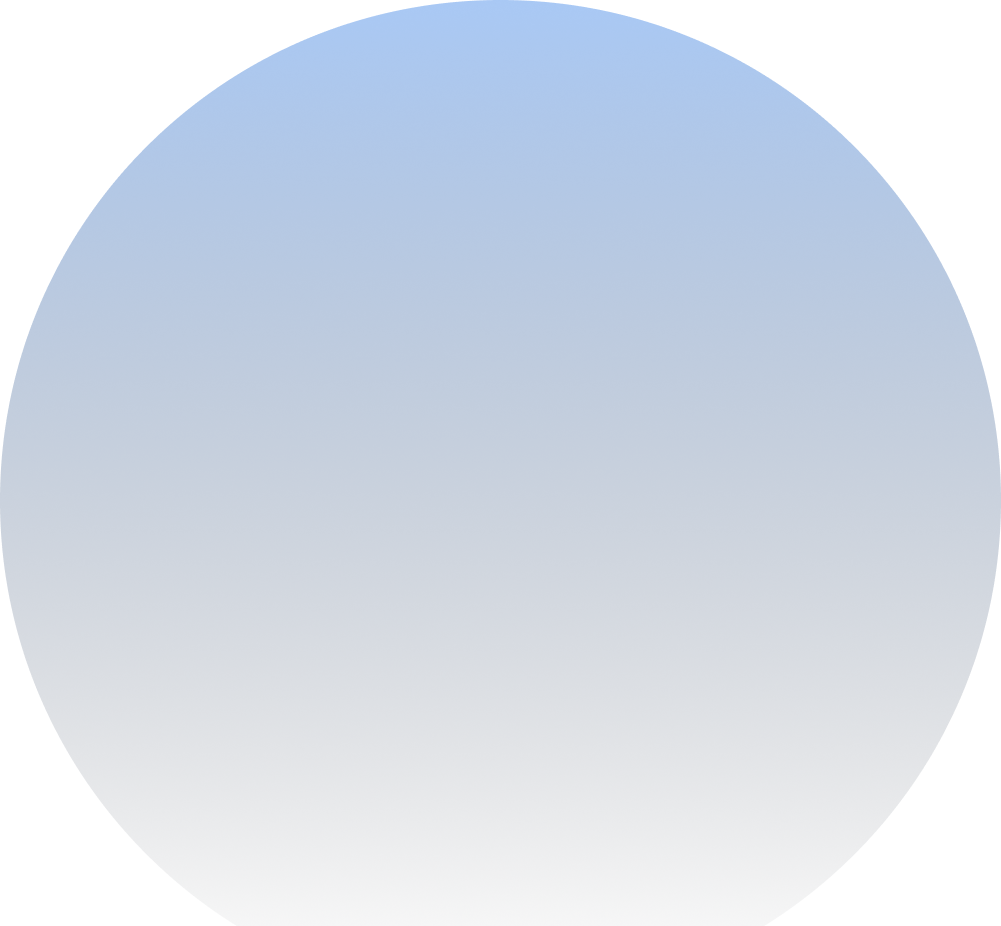
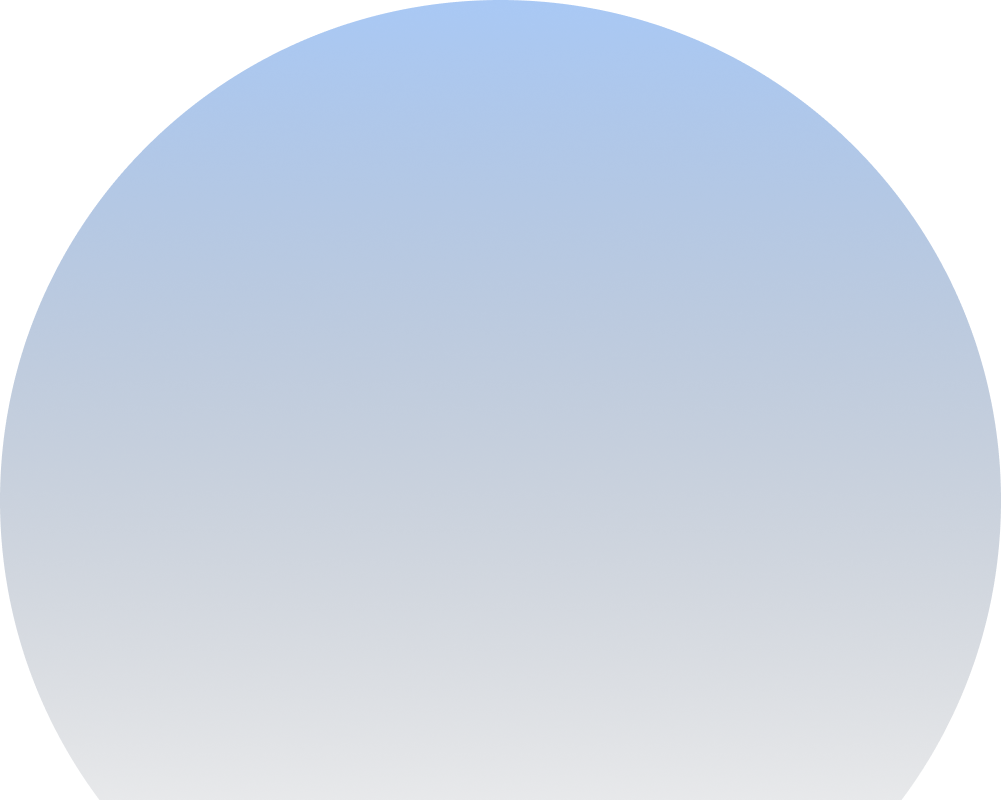
style: add blue sphere as background

diff --git a/src/components/organism/Contact.tsx b/src/components/organism/Contact.tsx
@@ -1,13 +1,12 @@
 import React, { useEffect, useState } from 'react';
-import Image from 'next/image';
+import { motion } from 'framer-motion';
 
-// Asset
-import BlueEllipes from '@public/images/blue-ellipse.png';
+// Animation
+import { fadeDown, fadeUp } from '@/animations/fade';
 
 // Component
 import TextInput from '../atom/TextInput';
 import TextAreaInput from '../atom/TextAreaInput';
-import Footer from './Footer';
 
 const Contact = () => {
   const [loading, setLoading] = useState<boolean>(true);
@@ -23,51 +22,81 @@ const Contact = () => {
     <div></div> 
   ) :
   (
-    <div className='w-full flex flex-col gap-7 md:gap-10 items-center'>
+    <div className='w-full mb-32 flex flex-col gap-7 md:gap-14 items-center'>
 
-      <h2 
+      <motion.h2 
         className='w-fit abril-fatface-regular text-purple-to-blue text-5xl text-center'
-        // custom={0}
-        // variants={titleVariants}
-        // initial="enter"
-        // whileInView="animate"
+        custom={0}
+        variants={fadeDown}
+        initial="enter"
+        whileInView="animate"
+        viewport={{ once: true }}
       >
         Let's talk about something big
-      </h2>
+      </motion.h2>
 
-      <div className='relative w-full h-fit mt-24 pt-5 flex flex-col items-center gap-32'>
-        <div className='max-w-[500px] w-11/12 flex flex-col gap-5 items-center'>
+      <div className='max-w-[500px] w-11/12 flex flex-col gap-5 items-center'>
+        <motion.div
+          className='w-full'
+          custom={1}
+          variants={fadeUp}
+          initial="enter"
+          whileInView="animate"
+          viewport={{ once: true }}
+        >
           <TextInput
             label='Email'
             type='email'
             name='email'
             placeholder='Your email'
           />
+        </motion.div>
+
+        <motion.div
+          className='w-full'
+          custom={2}
+          variants={fadeUp}
+          initial="enter"
+          whileInView="animate"
+          viewport={{ once: true }}
+        >
           <TextInput
             label='Subject'
             type='text'
             name='subject'
             placeholder='The subject'
           />
+        </motion.div>
+
+        <motion.div
+          className='w-full'
+          custom={3}
+          variants={fadeUp}
+          initial="enter"
+          whileInView="animate"
+          viewport={{ once: true }}
+        >
           <TextAreaInput 
             label='Message'
             name='message'
             placeholder='Your message here'
           />
+        </motion.div>
 
-          <div className='relative w-fit h-fit mt-3 group'>
-            <div className='opacity-0 absolute inset-0 bg-gradient-to-r from-blue_main to-tosca_main blur-md rounded-lg transition-opacity duration-500 ease-in-out group-hover:opacity-70'></div>
-            <div className='relative w-[170px] h-fit py-2 flex items-center justify-center rounded-lg bg-white cursor-pointer transition-all duration-150 ease-in-out active:scale-95'>
-              <span className='text-black poppins-medium'>Send</span>
-            </div>
+        <motion.div 
+          className='relative w-fit h-fit mt-3 group'
+          custom={4}
+          variants={fadeUp}
+          initial="enter"
+          whileInView="animate"
+          viewport={{ once: true }}
+        >
+          <div className='opacity-0 absolute inset-0 bg-gradient-to-r from-blue_main to-tosca_main blur-md rounded-lg transition-opacity duration-500 ease-in-out group-hover:opacity-70'></div>
+          <div className='relative w-[170px] h-fit py-2 flex items-center justify-center rounded-lg bg-white cursor-pointer transition-all duration-150 ease-in-out active:scale-95'>
+            <span className='text-black poppins-medium'>Send</span>
           </div>
+        </motion.div>
 
-        </div>
-
-        <Footer />
-
-        <Image className='absolute -z-[10] max-w-[950px] w-full ml-auto mr-auto' src={BlueEllipes} alt='Big ellipse' fill style={{objectFit: "cover", objectPosition: 'top'}}/>
-      
       </div>
 
     </div>

diff --git a/src/components/organism/Footer.tsx b/src/components/organism/Footer.tsx
@@ -1,10 +1,22 @@
-import React from 'react';
+import React, { useEffect, useState } from 'react';
 import { FontAwesomeIcon } from '@fortawesome/react-fontawesome';
 import { faLinkedinIn, faGithub } from '@fortawesome/free-brands-svg-icons';
 
 const Footer = () => {
-  return (
-    <div className='w-full h-fit mb-5 flex flex-col gap-5 items-center'>
+  const [loading, setLoading] = useState<boolean>(true);
+
+  useEffect(() => {
+    setTimeout(() => {
+      setLoading(false);
+    }, 1000)
+  });
+
+  return loading ? 
+    (
+      <div></div>
+    ) :
+    (
+    <div className='relative w-full h-fit flex flex-col gap-5 items-center'>
       <div className='flex gap-4'>
         <a 
           href='https://www.linkedin.com/in/ditra-amadia/' 
@@ -29,9 +41,10 @@ const Footer = () => {
         </a>
       </div>
 
-      <div className='text-white poppins-regular text-sm text-center'>
+      <div className='text-white poppins-regular text-sm text-center mb-5'>
         &copy; 2024 All rights reserved. <span className='text-tosca_main'>Ditra Amadia</span>
       </div>
+
     </div>
   );
 };

diff --git a/src/components/organism/About.tsx b/src/components/organism/About.tsx
@@ -1,6 +1,9 @@
 import React, { useEffect, useState } from 'react';
 import { Variants, motion } from 'framer-motion';
 
+// Animations
+import { fadeDown } from '@/animations/fade';
+
 // Asset
 import DownloadIcon from '@public/icons/download-ic.svg';
 
@@ -19,22 +22,6 @@ const AboutSection = () => {
       setLoading(false);
     }, 1000)
   });
-
-  const titleVariants: Variants = {
-    enter: {
-      opacity: 0,
-      y: -20
-    },
-    animate: i => ({
-      opacity: 1,
-      y: 0,
-      transition: {
-        ease: 'easeInOut',
-        duration: 1,
-        delay: i * 0.2
-      }
-    })
-  }
 
   const textVariants: Variants = {
     enter: {
@@ -86,9 +73,10 @@ const AboutSection = () => {
       <motion.h2 
         className='w-fit abril-fatface-regular text-purple-to-blue text-5xl text-center'
         custom={0}
-        variants={titleVariants}
+        variants={fadeDown}
         initial="enter"
         whileInView="animate"
+        viewport={{ once: true }}
       >
         About Me
       </motion.h2>

diff --git a/src/app/page.tsx b/src/app/page.tsx
@@ -4,14 +4,24 @@
 import HeroSection from "@/components/organism/Hero";
 import AboutSection from "@/components/organism/About";
 import Contact from "@/components/organism/Contact";
+import Footer from "@/components/organism/Footer";
+import { useEffect, useState } from "react";
 
 export default function Home() {
+  const [loading, setLoading] = useState<boolean>(true);
+
+  useEffect(() => {
+    setTimeout(() => {
+      setLoading(false)
+    }, 1000)
+  })
   
   return (
-    <div className="min-h-screen h-fit overflow-x-hidden flex flex-col items-center">
+    <div className={`min-h-screen h-fit overflow-x-hidden flex flex-col items-center ${loading ? '' : 'bg-blue-ellipse bg-no-repeat bg-bottom'}`}>
       <HeroSection />
       <AboutSection />
       <Contact />
+      <Footer />
     </div>
   );
 }

diff --git a/src/animations/fade.ts b/src/animations/fade.ts
@@ -1,0 +1,49 @@
+import { Variants } from "framer-motion";
+
+const fadeUp: Variants = {
+  enter: {
+    opacity: 0,
+    y: 20
+  },
+  animate: i => ({
+    opacity: 1,
+    y: 0,
+    transition: {
+      ease: 'easeInOut',
+      duration: 1,
+      delay: i * 0.2
+    }
+  })
+}
+
+const fadeDown: Variants = {
+  enter: {
+    opacity: 0,
+    y: -20
+  },
+  animate: i => ({
+    opacity: 1,
+    y: 0,
+    transition: {
+      ease: 'easeInOut',
+      duration: 1,
+      delay: i * 0.2
+    }
+  })
+}
+
+const fadeIn: Variants = {
+  enter: {
+    opacity: 0,
+  },
+  animate: i => ({
+    opacity: 1,
+    transition: {
+      ease: 'easeInOut',
+      duration: 1,
+      delay: i * 0.2
+    }
+  })
+}
+
+export { fadeUp, fadeDown, fadeIn };

diff --git a/src/components/atom/TextAreaInput.tsx b/src/components/atom/TextAreaInput.tsx
@@ -1,4 +1,6 @@
 import React from 'react';
+import { motion } from 'framer-motion';
+import { fadeUp } from '@/animations/fade';
 
 interface TextAreaInputProps {
   label: string,
@@ -11,7 +13,9 @@ interface TextAreaInputProps {
 const TextAreaInput = (props: TextAreaInputProps) => {
   const { label, name, placeholder } = props;
   return (
-    <div className='w-full flex flex-col gap-2'>
+    <div 
+      className='w-full flex flex-col gap-2'
+    >
       <label className='text-white poppins-extrabold text-sm'>{label}</label>
       <textarea 
         name={name} 

diff --git a/tailwind.config.ts b/tailwind.config.ts
@@ -21,6 +21,7 @@ const config: Config = {
       },
       backgroundImage: {
         'gradient-radial': 'radial-gradient(var(--tw-gradient-stops))',
+        'blue-ellipse': "url('/images/blue-ellipse.png')",
       }
     },
     screens: {
